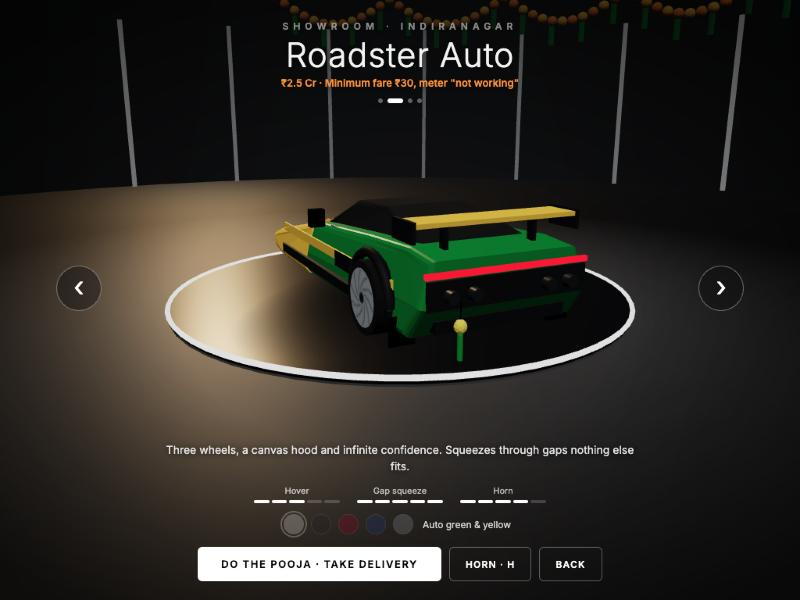
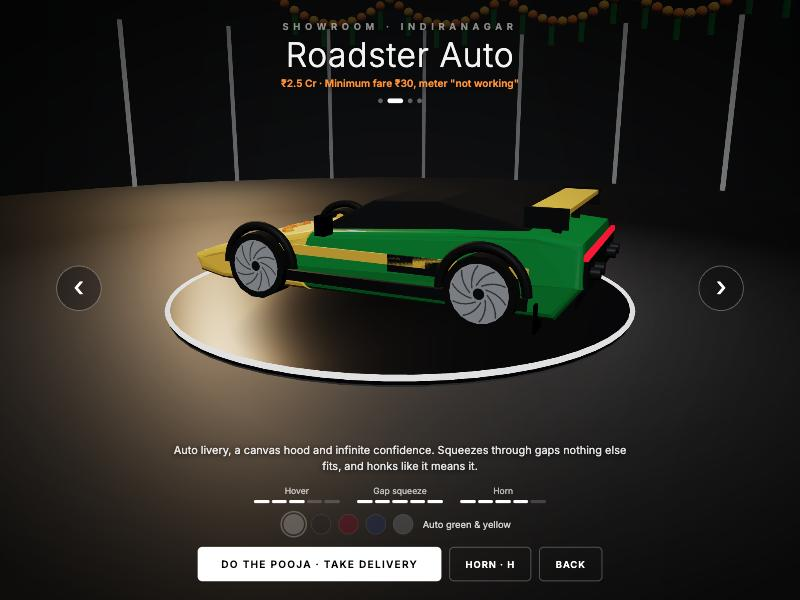
feat: new Roadster, Ambassador and auto horns; drop nimbu-mirchi; four-wheel Auto

diff --git a/game.js b/game.js
@@ -283,7 +283,7 @@ const MODEL_ORDER = ['roadster', 'auto', 'ambassador', 'shaadi'];
 const MODELS = {
   roadster: { name: 'Roadster', price: 'Ex-showroom ₹2.5 Cr*', tag: 'The one from the launch event. *Plus GST, road tax, insurance and "handling charges".', paint: 'white',
     mods: { hover: 1, hop: 1, steer: 1, horn: 1 }, stats: { Hover: 3, 'Gap squeeze': 3, Horn: 3 } },
-  auto: { name: 'Roadster Auto', price: '₹2.5 Cr · Minimum fare ₹30, meter "not working"', tag: 'Three wheels, a canvas hood and infinite confidence. Squeezes through gaps nothing else fits.', livery: 'Auto green & yellow',
+  auto: { name: 'Roadster Auto', price: '₹2.5 Cr · Minimum fare ₹30, meter "not working"', tag: 'Auto livery, a canvas hood and infinite confidence. Squeezes through gaps nothing else fits, and honks like it means it.', livery: 'Auto green & yellow',
     mods: { hover: 1, hop: 1, steer: 1.25, horn: 1.2 }, stats: { Hover: 3, 'Gap squeeze': 5, Horn: 4 } },
   ambassador: { name: 'Roadster Ambassador', price: '₹2.5 Cr · Red beacon "on request"', tag: 'A Roadster with Amby manners: chrome grille, round headlamps, VIP curtains and a red beacon, so traffic actually moves. Turns like it\'s 1958.', paint: 'white',
     mods: { hover: 1.1, hop: 0.92, steer: 0.85, horn: 2.0 }, stats: { Hover: 3, 'Gap squeeze': 2, Horn: 5 } },
@@ -297,13 +297,6 @@ let VEH = MODELS[carCfg.model].mods;
 const vehicleLabel = () => MODELS[carCfg.model].name + ' · ' + (MODELS[carCfg.model].livery || PAINTS[carCfg.paint][0]);
 
 // shared bits every version carries
-function addNimbu(g, x, y, z) {
-  const nm = new THREE.Group(); nm.position.set(x, y, z); g.add(nm);
-  box(nm, 0.012, 0.22, 0.012, 0x111111, 0, -0.11, 0);
-  sph(nm, 0.07, 0xf6e13a, 0, -0.26, 0, 1, 1.15, 1);
-  for (let i = 0; i < 4; i++) { const ch = cyl(nm, 0.025, 0.2, 0x1f9d3a, 0, 0, 0); ch.scale.set(0.03, 0.12, 0.03); ch.position.y = -0.4 - i * 0.07; }
-  return nm;
-}
 function addGlow(g) {
   const glow = new THREE.Mesh(new THREE.PlaneGeometry(2.6, 5), new THREE.MeshBasicMaterial({ map: radialTex('rgba(150,220,255,1)', 'rgba(150,220,255,0)'), transparent: true, blending: THREE.AdditiveBlending, depthWrite: false, opacity: 0 }));
   glow.rotation.x = -Math.PI / 2; glow.position.y = 0.05; g.add(glow); g.glow = glow;
@@ -352,23 +345,22 @@ function buildRoadster(cfg = carCfg) {
   for (const sx of [-1, 1]) {
     box(g, 0.06, 0.13, 3.9, 0, sx * 1.08, 0.33, 0.05, black);
     box(g, 0.03, 0.2, 0.75, 0, sx * 1.06, 0.62, 0.72, black);
-    for (const wz of auto ? [1.5] : [-1.45, 1.5]) {
+    for (const wz of [-1.45, 1.5]) {
       const arch = new THREE.Mesh(new THREE.TorusGeometry(0.5, 0.06, 6, 18, Math.PI), black);
       arch.rotation.y = Math.PI / 2; arch.position.set(sx * 1.09, 0.42, wz); g.add(arch);
     }
   }
-  // wheels with Cybercab-style aero covers (the auto gets a single front wheel, obviously)
+  // wheels with Cybercab-style aero covers
   const tire = new THREE.MeshStandardMaterial({ color: 0x111111, roughness: 0.9 });
   const cap = amb ? chrome : new THREE.MeshStandardMaterial({ map: aeroCapTex(), roughness: 0.35, metalness: 0.4 });
   g.wheels = [];
-  const wheelSpots = auto ? [[0, -1.75, 0.3], [-1, 1.5, 0.42], [1, 1.5, 0.42]] : [[-1, -1.45, 0.42], [1, -1.45, 0.42], [-1, 1.5, 0.42], [1, 1.5, 0.42]];
+  const wheelSpots = [[-1, -1.45, 0.42], [1, -1.45, 0.42], [-1, 1.5, 0.42], [1, 1.5, 0.42]];
   for (const [x, z, r] of wheelSpots) {
     const wg = new THREE.Group(); wg.position.set(x * 1.04, r, z); g.add(wg);
     cyl(wg, r, 0.3, 0, 0, 0, 0, 'x', tire);
-    for (const side of x === 0 ? [-1, 1] : [x]) { const disc = new THREE.Mesh(new THREE.CircleGeometry(r * 0.8, 20), cap); disc.position.x = side * 0.155; disc.rotation.y = side * Math.PI / 2; wg.add(disc); }
+    const disc = new THREE.Mesh(new THREE.CircleGeometry(r * 0.8, 20), cap); disc.position.x = x * 0.155; disc.rotation.y = x * Math.PI / 2; wg.add(disc);
     g.wheels.push(wg);
   }
-  if (auto) { box(g, 0.08, 0.5, 0.08, 0x2a2a2a, 0, 0.5, -1.75); }                       // front fork
   // nose: splitter + light bar
   box(g, 1.9, 0.05, 0.4, 0, 0, 0.22, -2.3, black);
   if (!amb) box(g, 1.7, 0.04, 0.04, 0, 0, 0.44, -2.56, new THREE.MeshBasicMaterial({ color: 0xffffff }));
@@ -386,13 +378,11 @@ function buildRoadster(cfg = carCfg) {
     const t = i / 10, x = (t - 0.5) * 1.3, z = -1.3 - Math.cos((t - 0.5) * Math.PI) * 0.4;
     sph(g, 0.065, i % 2 ? 0xff8c00 : 0xffb300, x, 0.5 + (z + 2.25) / 1.4 * 0.31 + 0.06, z);
   }
-  g.nimbu = addNimbu(g, 0.35, 0.36, -2.56);
-  if (auto) { // yellow beltline, mud flaps with reflectors, a second nimbu-mirchi out back
+  if (auto) { // yellow beltline, mud flaps with reflectors
     for (const sx of [-1, 1]) {
       box(g, 0.03, 0.12, 3.9, 0, sx * 1.06, 0.66, 0.05, yel);
       box(g, 0.3, 0.32, 0.03, 0x111111, sx * 1.0, 0.2, 2.1); box(g, 0.1, 0.05, 0.035, 0xe82127, sx * 1.0, 0.3, 2.103);
     }
-    addNimbu(g, -0.6, 0.6, 2.6);
   }
   if (amb) { // Ambassador cues on a Roadster: chrome grille, round headlamps, bumpers, side strip, VIP curtains, red beacon
     box(g, 1.0, 0.15, 0.04, 0, 0, 0.39, -2.55, chrome);
@@ -975,6 +965,7 @@ const AU = {
   honk(kind = 'car', pan = 0, dist = 0, delay = 0) {
     if (!this.ok()) return;
     if (kind === 'truck') return this.truckHorn(pan, dist, delay);
+    if (kind === 'auto') return this.autoHorn(pan, dist, delay);
     const H = HORNS[kind] || HORNS.car, ctx = this.ctx, t = this.now(delay);
     const inp = this.spatial(pan, dist, 0.1);
     const bp = ctx.createBiquadFilter(); bp.type = 'bandpass'; bp.frequency.value = H.bp; bp.Q.value = H.q; bp.connect(inp);
@@ -994,15 +985,39 @@ const AU = {
     const tune = pick([[523, 659, 784, 659, 587, 523], [659, 784, 880, 784, 659], [587, 659, 587, 523, 587]]);
     tune.forEach((n, i) => { const g = ctx.createGain(); this.env(g, t + i * 0.14, 0.01, 0.07, 0.1, 0.03); g.connect(lp); this.osc('square', n, t + i * 0.14, 0.15, g); this.osc('triangle', n * 1.003, t + i * 0.14, 0.15, g); });
   },
-  playerHorn(model = 'roadster') { // the Roadster: crisp, expensive, dual-tone. Also ignored.
+  playerHorn(model = 'roadster') {
     if (!this.ok()) return;
-    if (model === 'auto') return this.honk('auto', 0, 0);
-    if (model === 'ambassador') return this.hooter();
+    if (model === 'auto') return this.autoHorn(0, 0);
+    if (model === 'ambassador') return this.ambyHorn();
     if (model === 'shaadi') return this.bandBaaja();
-    const ctx = this.ctx, t = this.now(), inp = this.spatial(0, 0, 0.08);
-    const bp = ctx.createBiquadFilter(); bp.type = 'bandpass'; bp.frequency.value = 1500; bp.Q.value = 0.8; bp.connect(inp);
-    const g = ctx.createGain(); this.env(g, t, 0.01, 0.35, 0.24, 0.06); g.connect(bp);
-    this.osc('sawtooth', 440, t, 0.35, g); this.osc('sawtooth', 554.4, t, 0.35, g);
+    // Roadster: a modern EV horn. Clean major-third dual tone that snaps into pitch, opens up, and lifts slightly at the tail.
+    const ctx = this.ctx, t = this.now(), inp = this.spatial(0, 0, 0.12);
+    const lp = ctx.createBiquadFilter(); lp.type = 'lowpass'; lp.Q.value = 1.1; lp.connect(inp);
+    lp.frequency.setValueAtTime(1600, t); lp.frequency.linearRampToValueAtTime(4200, t + 0.06);
+    const g = ctx.createGain(); this.env(g, t, 0.006, 0.3, 0.22, 0.14); g.connect(lp);
+    for (const [f, type, v] of [[523.25, 'sawtooth', 0.45], [659.25, 'sawtooth', 0.45], [261.6, 'sine', 0.8]]) {
+      const vg = ctx.createGain(); vg.gain.value = v; vg.connect(g);
+      const o = this.osc(type, f * 0.96, t, 0.45, vg);
+      o.frequency.exponentialRampToValueAtTime(f, t + 0.035); o.frequency.exponentialRampToValueAtTime(f * 1.04, t + 0.38);
+    }
+  },
+  ambyHorn() { // classic dual-tone "paarp-paarp", the way an old Amby announces itself
+    const ctx = this.ctx, t = this.now(), inp = this.spatial(0, 0, 0.1);
+    const bp = ctx.createBiquadFilter(); bp.type = 'bandpass'; bp.frequency.value = 1250; bp.Q.value = 0.8; bp.connect(inp);
+    for (const [at, d] of [[0, 0.17], [0.27, 0.26]]) {
+      const g = ctx.createGain(); this.env(g, t + at, 0.01, 0.34, d, 0.05); g.connect(bp);
+      this.osc('sawtooth', 392, t + at, d + 0.08, g); this.osc('sawtooth', 494, t + at, d + 0.08, g);
+    }
+  },
+  autoHorn(pan = 0, dist = 0, delay = 0) { // shrill, nasal electric "pee-peep" of a Bengaluru auto
+    if (!this.ok()) return;
+    const ctx = this.ctx, t = this.now(delay), inp = this.spatial(pan, dist, 0.08);
+    const bp = ctx.createBiquadFilter(); bp.type = 'bandpass'; bp.frequency.value = 2300; bp.Q.value = 1.4; bp.connect(inp);
+    const pj = rand(0.95, 1.06);
+    for (const [at, d] of [[0, 0.08], [0.14, 0.17]]) {
+      const g = ctx.createGain(); this.env(g, t + at, 0.004, 0.42, d, 0.03); g.connect(bp);
+      for (const f of [760, 1140]) { const o = this.osc('square', f * pj, t + at, d + 0.05, g); if (at) o.frequency.exponentialRampToValueAtTime(f * pj * 0.96, t + at + d); }
+    }
   },
 
   // ---------- sfx
@@ -1060,13 +1075,6 @@ const AU = {
       this.osc('sawtooth', f, t + at, d + 0.05, g); this.osc('square', f * 1.004, t + at, d + 0.05, g); return at + d;
     }, 0);
     this.noise(t, 0.1, 'highpass', 6000, 0.7, 0.12, inp); this.noise(t + 0.48, 0.1, 'highpass', 6000, 0.7, 0.12, inp); // cymbal ticks
-  },
-  hooter() { // VIP siren whoop for the Ambassador's red beacon
-    if (!this.ok()) return;
-    const ctx = this.ctx, t = this.now(), inp = this.spatial(0, 0, 0.15);
-    const bp = ctx.createBiquadFilter(); bp.type = 'bandpass'; bp.frequency.value = 1100; bp.Q.value = 0.9; bp.connect(inp);
-    const g = ctx.createGain(); this.env(g, t, 0.02, 0.3, 0.62, 0.08); g.connect(bp);
-    const o = this.osc('sawtooth', 620, t, 0.8, g); o.frequency.linearRampToValueAtTime(1050, t + 0.32); o.frequency.linearRampToValueAtTime(620, t + 0.66);
   },
   bell() { // temple bell for the delivery pooja
     if (!this.ok()) return;
@@ -1602,9 +1610,7 @@ function syncVisuals(dt) {
   car.pitch = lerp(car.pitch, pitchT, 1 - Math.exp(-dt * 6));
   carMesh.rotation.set(car.pitch, -car.vx * 0.012, car.tilt + (car.rolling ? car.rollDir * -car.roll * Math.PI * 2 : 0));
   for (const w of carMesh.wheels) w.children[0].rotation.x += car.speed * dt / 0.37;
-  carMesh.nimbu.rotation.z = Math.sin(game.t * 7) * 0.15 + car.vx * 0.03;
   animateCarExtras(game.t);
-  carMesh.nimbu.rotation.x = -car.speed * 0.008;
   const hover = car.thrust * (car.onGround ? 0 : 1);
   carMesh.glow.material.opacity = hover * 0.9; carMesh.glow.position.y = -car.y + 0.05 + 0.01; carMesh.glow.scale.setScalar(1 + car.y * 0.1);
 
@@ -1776,7 +1782,6 @@ function showroomFrame(dt) {
     camera.setViewOffset(w, h, 0, h * (portrait ? 0.1 : 0.07), w, h);   // nudge the car up, clear of the bottom panel
   }
   if (camera.fov !== (portrait ? 70 : 50)) { camera.fov = portrait ? 70 : 50; camera.updateProjectionMatrix(); }
-  carMesh.nimbu.rotation.z = Math.sin(game.t * 3) * 0.2;
   animateCarExtras(showroom.t);
   AU.setEngine(0, 0);
 }
@@ -1906,7 +1911,6 @@ function frame(now) {
       camera.position.set(car.x + Math.sin(a) * r, 2.4 * (portrait ? 1.4 : 1), Math.cos(a) * r);
       camera.lookAt(car.x, 0.6, 0);
       updateSky(dt);
-      carMesh.nimbu.rotation.z = Math.sin(game.t * 3) * 0.2;
       game.ambT -= dt; if (game.ambT <= 0) { game.ambT = rand(2.5, 6); AU.honk(pick(['car', 'auto', 'bus', 'bike']), rand(-1, 1), rand(0.7, 1)); } // distant city
     } else {
       updateParticles(dt);

diff --git a/index.html b/index.html
@@ -25,7 +25,7 @@
 <link rel="preconnect" href="https://fonts.googleapis.com">
 <link rel="preconnect" href="https://fonts.gstatic.com" crossorigin>
 <link href="https://fonts.googleapis.com/css2?family=Inter:wght@200;300;400;600;800&family=Baloo+2:wght@600;800&display=swap" rel="stylesheet">
-<link rel="stylesheet" href="style.css?v=32">
+<link rel="stylesheet" href="style.css?v=33">
 </head>
 <body>
 <div id="app"></div>
@@ -167,6 +167,6 @@
 <script type="importmap">
 { "imports": { "three": "https://cdn.jsdelivr.net/npm/three@0.160.0/build/three.module.js", "three/addons/": "https://cdn.jsdelivr.net/npm/three@0.160.0/examples/jsm/" } }
 </script>
-<script type="module" src="game.js?v=32"></script>
+<script type="module" src="game.js?v=33"></script>
 </body>
 </html>

diff --git a/CLAUDE.md b/CLAUDE.md
@@ -27,7 +27,7 @@ A comedy browser game: fly a Tesla Roadster through Bengaluru traffic (HSR Layou
 - Keep the scene calm. Buildings and vehicles carry almost no text (a few shop boards, HORN OK PLEASE on tankers), and the menus stay minimal. The user pushed back on visual clutter, so add detail sparingly.
 - Audio is SFX only (no music, removed as annoying), with one mute switch (`AU.setMuted`, persisted as `rb-muted`). Every voice, including the reverb return, must route through `AU.sfx` so that pause and mute really silence it.
 - Fan parody: keep the "not affiliated with Tesla" line on the title screen and in the README.
-- Vehicles: `MODEL_ORDER` / `MODELS` (Roadster, Auto, Ambassador, Shaadi Edition) and `PAINTS` sit above `buildRoadster(cfg)`. **Every version keeps the Roadster body.** Variants only dress it (Auto: canvas canopy, yellow nose, 3 wheels; Ambassador: chrome grille, round lamps, curtains, beacon). Gameplay `mods` (hover drain, hop, steer, horn reach) are applied through `VEH`, and horns are per model (`AU.playerHorn(model)`). Saved as `rb-car`.
+- Vehicles: `MODEL_ORDER` / `MODELS` (Roadster, Auto, Ambassador, Shaadi Edition) and `PAINTS` sit above `buildRoadster(cfg)`. **Every version keeps the Roadster body.** Variants only dress it (Auto: canvas canopy, yellow nose, auto livery; Ambassador: chrome grille, round lamps, curtains, beacon). Gameplay `mods` (hover drain, hop, steer, horn reach) are applied through `VEH`, and horns are per model (`AU.playerHorn(model)`). Saved as `rb-car`.
 - Showroom: its own room (`showroomScene`: dark studio, turntable, light strips, marigold toran). `setGarage(open, 'title'|'pause')` moves `carMesh` into that room and back. ‹ › or ←/→ swap cars, H tests the horn. Opens from the title card's "Enter the showroom" or the pause menu's "Change car". "Take delivery" plays the lemon-and-coconut pooja, but only when the choice changed. Debug: `__game.showroom.rot`, `__game.poojaStep(sec)`.
 
 ## Testing

diff --git a/README.md b/README.md
@@ -31,7 +31,7 @@ Open http://localhost:8742.
 | P / Esc | Pause |
 | M | Mute |
 
-Visit the showroom (bottom right of the title screen, or Change car from pause): the launch-event Roadster, the three-wheeled Roadster Auto, the chrome-and-red-beacon Roadster Ambassador, or the marigold-draped Shaadi Edition. Each has its own horn and handling, and delivery includes a lemon-and-coconut pooja.
+Visit the showroom (bottom right of the title screen, or Change car from pause): the launch-event Roadster, the auto-livery Roadster Auto, the chrome-and-red-beacon Roadster Ambassador, or the marigold-draped Shaadi Edition. Each has its own horn and handling, and delivery includes a lemon-and-coconut pooja.
 
 Drive modes (Chill / Sport / Plaid) change cruise speed. The clock scales with the mode, so Chill isn't a handicap. Touch controls appear on phones.
 
